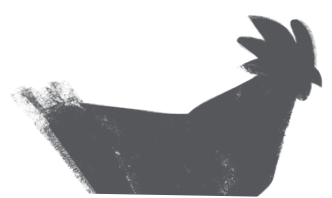
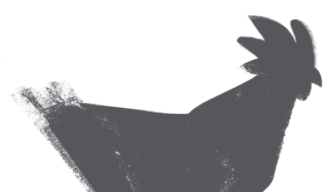
Crop PNGs

diff --git a/menuviewer/qml/main.qml b/menuviewer/qml/main.qml
@@ -4,7 +4,7 @@ import Common 1.0
 
 Window {
     id: mainWindow
-    visibility: Window.Maximized
+    visibility: Window.FullScreen
     width: Screen.desktopAvailableWidth
     height: Screen.desktopAvailableHeight
     visible: true
